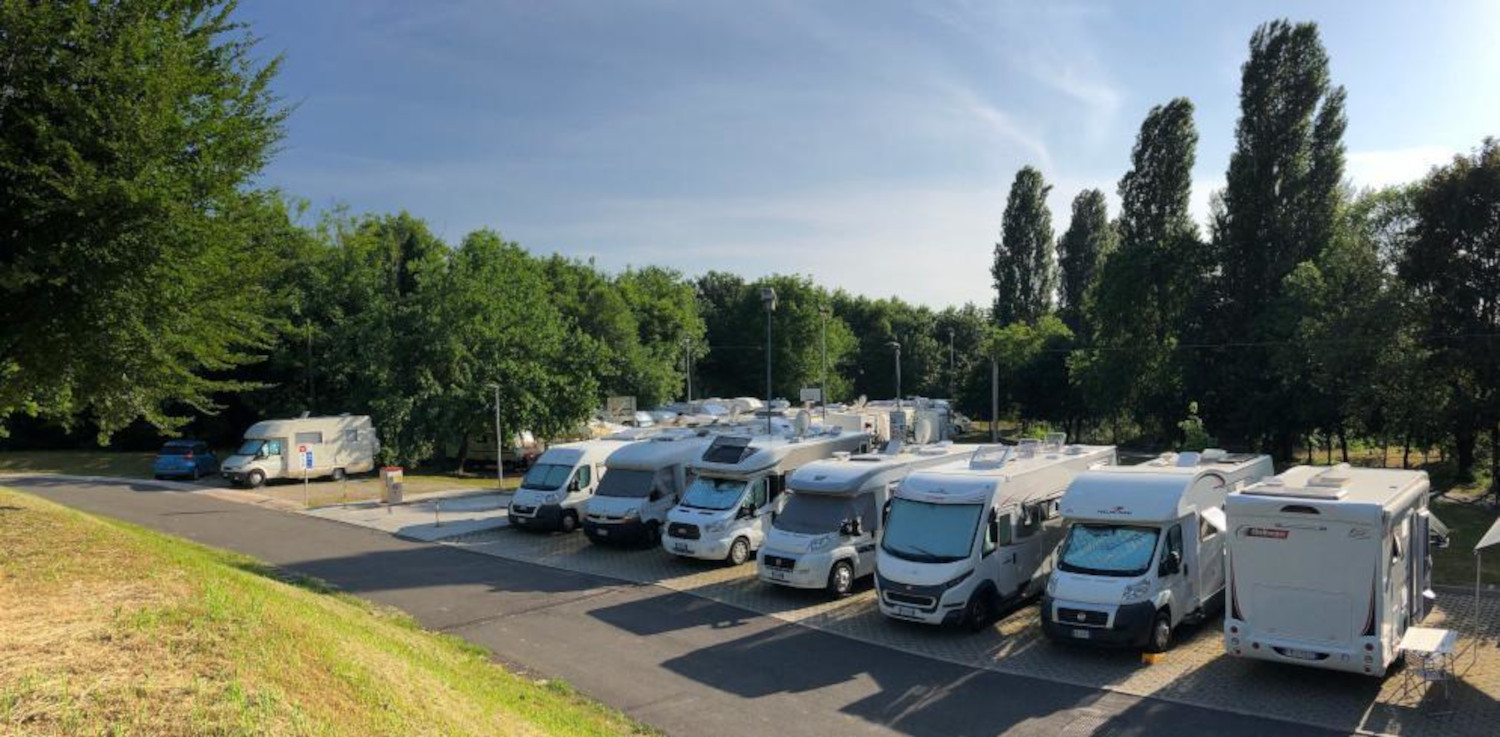
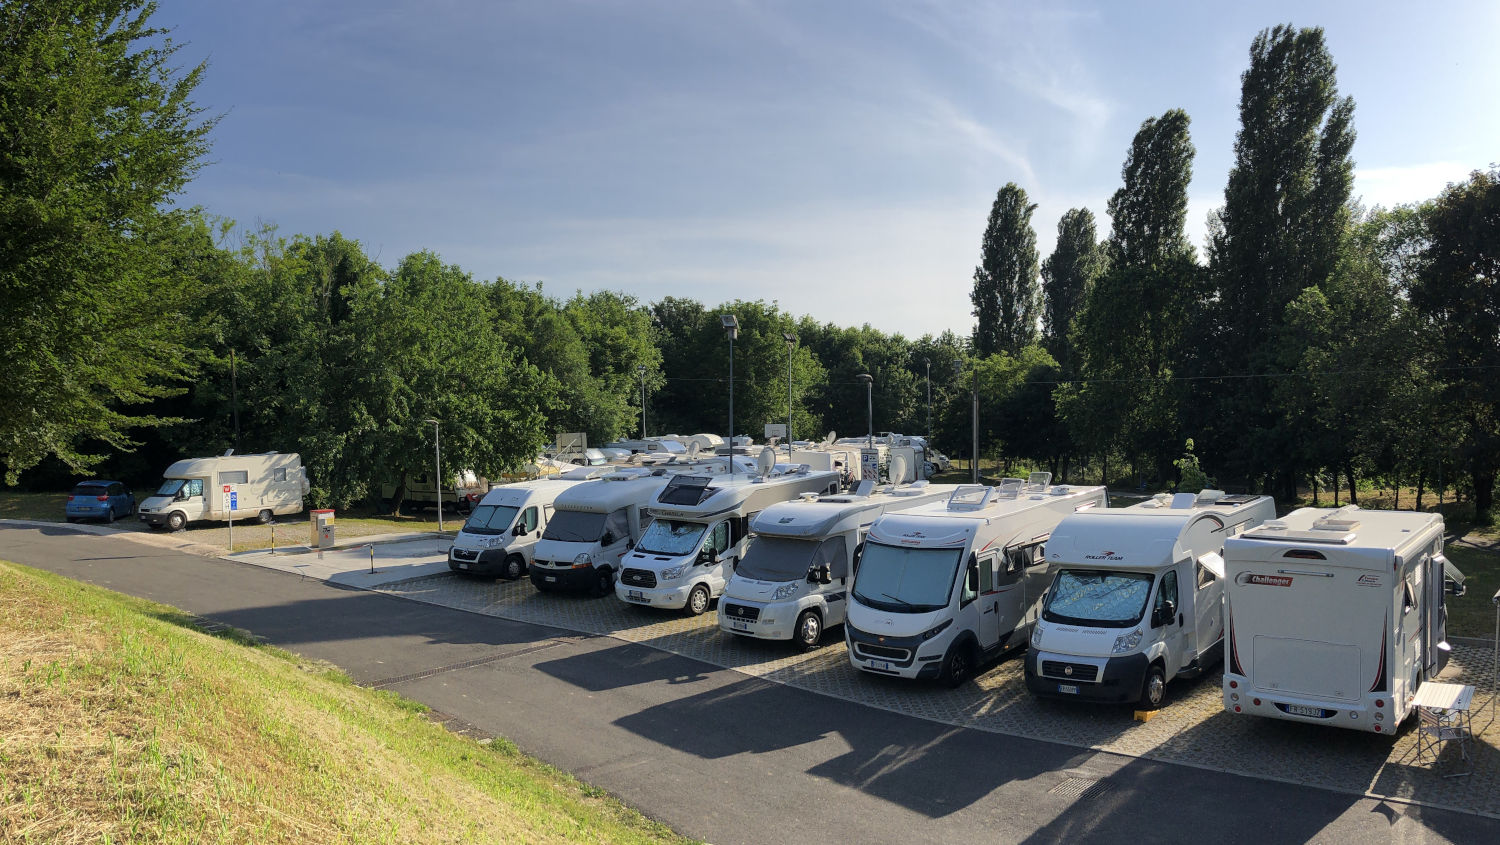
Inserimento gestione immagini jpg webp - 2a revisione - manca figure negli md

diff --git a/layouts/partials/image.html b/layouts/partials/image.html
@@ -1,0 +1,61 @@
+{{ $imagePath:= .Src }}
+{{ $class:= .Class }}
+{{ $size:= .Size }}
+{{ $alt:= .Alt }}
+{{ $height:= index (split $size `x`) 1 }}
+{{ $width:= index (split $size `x`) 0 }}
+
+<!-- image static/CDN -->
+{{ if or (hasPrefix $imagePath "http") (fileExists (add `static/` (string $imagePath))) }}
+<img loading="lazy" decoding="async" src="{{ $imagePath | absURL }}" alt="{{.Alt}}" class="{{with $class}}{{.}}{{else}}img-fluid{{end}}" height="{{$height}}" width="{{$width}}">
+{{ else }}
+<!-- /image cdn -->
+
+<!-- check file existance -->
+{{ if fileExists (add `assets/` (string $imagePath)) }}
+
+{{ $image:= resources.Get $imagePath }}
+<!-- image extension -->
+{{ $imageExt := path.Ext $image }}
+
+<!-- image height, width (if not svg) -->
+{{ if eq $imageExt `.svg` }}
+{{ .Scratch.Set "image-height" "" }}
+{{ .Scratch.Set "image-width" "" }}
+{{ else }}
+{{ .Scratch.Set "image-height" $image.Height }}
+{{ .Scratch.Set "image-width" $image.Width }}
+{{ end }}
+{{ $imageHeight:= .Scratch.Get "image-height" }}
+{{ $imageWidth:= .Scratch.Get "image-width" }}
+
+<!-- gif/svg image -->
+{{ if or (eq $imageExt `.gif`) (eq $imageExt `.svg`) }}
+<img src="{{$image.RelPermalink}}" loading="lazy" decoding="async" alt="{{.Alt}}" class="{{with $class}}{{.}}{{else}}img-fluid{{end}}" width="{{$width}}" height="{{$height}}">
+{{ else }}
+
+<!-- single image -->
+{{ if $size }}
+{{ $imageFallback:= $image.Resize $size }}
+{{ $imageWebp:= $image.Resize (add (string $size) " webp") }}
+<img loading="lazy" decoding="async" src="{{$imageWebp.RelPermalink}}" alt="{{.Alt}}" class="{{with $class}}{{.}}{{else}}img-fluid{{end}}" width="{{$width}}" height="{{$height}}" onerror="this.onerror='null';this.src='{{$imageFallback.RelPermalink}}'">
+{{ else }}
+
+<!-- image processing for multiple device -->
+{{ $imageFallback:= $image.Resize "1110x" }}
+{{ $imageXL:= $image.Resize "1110x webp" }}
+{{ $imageLG:= $image.Resize "700x webp" }}
+{{ $imageMD:= $image.Resize "600x webp" }}
+{{ $imageSM:= $image.Resize "545x webp" }}
+<picture>
+  <source srcset="{{ $imageSM.RelPermalink }}" media="(max-width: 575px)">
+  <source srcset="{{ $imageMD.RelPermalink }}" media="(max-width: 767px)">
+  <source srcset="{{ $imageLG.RelPermalink }}" media="(max-width: 991px)">
+  <source srcset="{{ $imageXL.RelPermalink }}">
+  <img loading="lazy" decoding="async" class="{{with $class}}{{.}}{{else}}img-fluid{{end}}" src="{{$imageFallback.RelPermalink}}" alt="{{.Alt}}" width="{{$image.Width}}" height="{{$image.Height}}">
+</picture>
+{{ end }} <!-- end image processing -->
+{{ end }} <!-- end single image -->
+{{ end }} <!-- end check file existance -->
+
+{{ end }}

diff --git a/layouts/partials/site-footer.html b/layouts/partials/site-footer.html
@@ -1,15 +1,15 @@
 <footer class="{{ .Site.Params.background_color_class | default "bg-black" }} bottom-0 w-100 pa3" role="contentinfo">
   <div class="white-70">Tags</div>
   <div>{{ partial "site-footer-tags.html" . }}</div>
-  <div class="white-70 center">{{ .Site.Params.indirizzo_footer }} <a href="http://www.comune.buttrio.ud.it/"><img src="/images/stemma_buttrio.png" class="w100 mw4-ns v-mid" title="Comune di Buttrio" /></a> <a href="https://www.buri.it"><img src="/images/buri_piccola.png" class="w100 mw4-ns v-mid"  title="Pro Loco Buri" /></a></div>
+  <div class="white-70 center">{{ .Site.Params.indirizzo_footer }} <a href="http://www.comune.buttrio.ud.it/">{{ partial "image.html" (dict "Src" "images/stemma_buttrio.png" "Size" "80x80" "Class" "w100 mw4-ns v-mid" "Alt" "Comune di Buttrio") }}</a> <a href="https://www.buri.it">{{ partial "image.html" (dict "Src" "images/buri_piccola.png" "Size" "50x49" "Class" "w100 mw4-ns v-mid" "Alt" "Pro Loco Buri") }}</a></div>
   <div class="ttu">{{ partial "site-navigation-footer.html" . }}</div>
   <div ><a class="link f5 no-underline br-2 ph3 pv2 mb2 dib white-70 sans-serif" href="/privacy-policy">Privacy Policy</a>
     <span class="white-70">Powered by:</span> 
     <a class="link f5 no-underline br-2 ph3 pv2 mb2 dib white-70 sans-serif" href="https://github.com">
-      <img src="/images/github.jpg" class="w100 mw4-ns v-mid" />
+      {{ partial "image.html" (dict "Src" "images/github.jpg" "Size" "57x56" "Class" "w100 mw4-ns v-mid" ) }}
     </a>
     <a class="link f5 no-underline br-2 ph3 pv2 mb2 dib white-70 sans-serif" href="https://gohugo.io/">
-      <img src="/images/hugo.jpg" class="w100 mw4-ns v-mid" />
+      {{ partial "image.html" (dict "Src" "images/hugo.jpg" "Size" "92x26" "Class" "w100 mw4-ns v-mid" "Alt" "Fatto con Hugo") }}
     </a>
     <a class="link f5 no-underline br-2 ph3 pv2 mb2 dib white-70 sans-serif" href="/blog/index.xml" type="application/rss+xml">
       {{ partial "svg/Feed-icon.svg" }}

diff --git a/layouts/partials/eventi-with-image.html b/layouts/partials/eventi-with-image.html
@@ -16,20 +16,20 @@
                 <!-- WEBP -->
             
                 <source type="image/webp" media="(max-width: 500px)"
-                    srcset=" {{ ($src.Resize "384x webp" ).RelPermalink }} ">
+                    srcset=" {{ ($src.Resize "384x266 webp" ).RelPermalink }} ">
             
                 <source type="image/webp" media="(min-width: 501px)"
-                    srcset=" {{ ($src.Resize "384x webp" ).RelPermalink }} ">
+                    srcset=" {{ ($src.Resize "384x266 webp" ).RelPermalink }} ">
             
                 <!-- JPG -->
             
                 <source type="image/jpeg"  media="(max-width: 500px)"
-                    srcset=" {{ ($src.Resize "384x" ).RelPermalink }} ">
+                    srcset=" {{ ($src.Resize "384x266" ).RelPermalink }} ">
             
                 <source type="image/jpeg"  media="(min-width: 501px)"
-                    srcset=" {{ ($src.Resize "384x" ).RelPermalink }} ">
+                    srcset=" {{ ($src.Resize "384x266" ).RelPermalink }} ">
               
-                <img class="img" src=" {{ $src.RelPermalink }} " alt="immagine da {{ .Title }}" />
+                <img class="img" src=" {{ $src.RelPermalink }} " alt="immagine da {{ .Title }}" width="384" height="266" />
               </picture>
             {{ end }}
 

diff --git a/layouts/_default/summary-with-image.html b/layouts/_default/summary-with-image.html
@@ -15,20 +15,20 @@
               <!-- WEBP -->
           
               <source type="image/webp" media="(max-width: 500px)"
-                  srcset=" {{ ($src.Resize "384x webp" ).RelPermalink }} ">
+                  srcset=" {{ ($src.Resize "384x266 webp" ).RelPermalink }} ">
           
               <source type="image/webp" media="(min-width: 501px)"
-                  srcset=" {{ ($src.Resize "384x webp" ).RelPermalink }} ">
+                  srcset=" {{ ($src.Resize "384x266 webp" ).RelPermalink }} ">
           
               <!-- JPG -->
           
               <source type="image/jpeg"  media="(max-width: 500px)"
-                  srcset=" {{ ($src.Resize "384x" ).RelPermalink }} ">
+                  srcset=" {{ ($src.Resize "384x266" ).RelPermalink }} ">
           
               <source type="image/jpeg"  media="(min-width: 501px)"
-                  srcset=" {{ ($src.Resize "384x" ).RelPermalink }} ">
+                  srcset=" {{ ($src.Resize "384x266" ).RelPermalink }} ">
              
-              <img class="img" src=" {{ $src.RelPermalink }} " alt="immagine da {{ .Title }}" />
+              <img class="img" src=" {{ $src.RelPermalink }} " alt="immagine da {{ .Title }}" width="384" height="266"  />
             </picture>
     
           {{ end }}

diff --git a/layouts/partials/site-header.html b/layouts/partials/site-header.html
@@ -14,18 +14,18 @@
           <!-- WEBP -->
       
           <source type="image/webp" media="(max-width: 500px)"
-              srcset=" {{ ($src.Resize "498x webp" ).RelPermalink }} ">
+              srcset=" {{ ($src.Resize "498x281 webp" ).RelPermalink }} ">
       
           <source type="image/webp" media="(min-width: 501px)"
-              srcset=" {{ ($src.Resize (printf "%dx webp" .Width)).RelPermalink }} ">
+              srcset=" {{ ($src.Resize (printf "%dx%d webp" .Width .Height)).RelPermalink }} ">
       
           <!-- JPG -->
       
           <source type="image/jpeg"  media="(max-width: 500px)"
-              srcset=" {{ ($src.Resize "500x" ).RelPermalink }} ">
+              srcset=" {{ ($src.Resize "498x281" ).RelPermalink }} ">
       
           <source type="image/jpeg"  media="(min-width: 501px)"
-              srcset=" {{ ($src.Resize (printf "%dx" .Width)).RelPermalink }} ">
+              srcset=" {{ ($src.Resize (printf "%dx%d" .Width .Height)).RelPermalink }} ">
         
           <img class="pageheader" src=" {{ $src.RelPermalink }} "  />
         </picture>

diff --git a/layouts/partials/site-navigation-footer.html b/layouts/partials/site-navigation-footer.html
@@ -2,7 +2,7 @@
   <div class="flex-l justify-between items-center center">
     <a href="{{ .Site.Home.RelPermalink }}" class="f3 fw2 hover-white no-underline white-90 dib">
       {{ with .Site.Params.site_logo }}
-        <img src="{{ . }}" class="w70 mw4-ns" alt="{{ $.Site.Title }}" />
+        <img src="{{ . }}" class="w70 mw4" alt="{{ $.Site.Title }}"  />
       {{ else }}
         {{ .Site.Title }}
       {{ end }}

diff --git a/content/cookie-policy.md b/content/cookie-policy.md
@@ -47,7 +47,7 @@ La maggior parte dei browser permette di cancellare i cookie dal disco fisso del
 
 [Mozilla Firefox](https://support.mozilla.org/it/kb/Attivare%20e%20disattivare%20i%20cookie)
 
-[Internet Explorer](http://support.microsoft.com/kb/196955)
+[Microsoft Edge](https://support.microsoft.com/it-it/microsoft-edge/eliminare-i-cookie-in-microsoft-edge-63947406-40ac-c3b8-57b9-2a946a29ae09)
 
 [Safari](http://support.apple.com/kb/PH5042)
 

diff --git a/content/gallery/photo-gallery-2019/index.md b/content/gallery/photo-gallery-2019/index.md
@@ -3,7 +3,7 @@ title: "Photo Gallery 2019"
 date: 2021-01-01T22:55:41+01:00
 draft: false
 layout: "galleria"
-featured_image: 'images/Home.jpg'
+featured_image: 'images/CampersInSosta.jpg'
 
 album:
   enable: true

diff --git a/content/gallery/photo-gallery-2021/index.md b/content/gallery/photo-gallery-2021/index.md
@@ -3,7 +3,7 @@ title: "Photo Gallery 2021"
 date: 2021-01-01T22:55:41+01:00
 draft: false
 layout: "galleria"
-featured_image: 'images/Home.jpg'
+featured_image: 'images/CampersInSosta.jpg'
 
 album:
   enable: true

diff --git a/content/gallery/photo-gallery-2022/index.md b/content/gallery/photo-gallery-2022/index.md
@@ -3,7 +3,7 @@ title: "Photo Gallery 2022"
 date: 2022-02-01T22:55:41+01:00
 draft: false
 layout: "galleria"
-featured_image: 'images/Home.jpg'
+featured_image: 'images/CampersInSosta.jpg'
 
 album:
   enable: true

diff --git a/content/gallery/photo-gallery-2017/index.md b/content/gallery/photo-gallery-2017/index.md
@@ -3,7 +3,7 @@ title: "Photo Gallery 2017"
 date: 2021-01-01T22:55:41+01:00
 draft: false
 layout: "galleria"
-featured_image: 'images/Home.jpg'
+featured_image: 'images/CampersInSosta.jpg'
 
 
 album:

diff --git a/content/gallery/photo-gallery-2018/index.md b/content/gallery/photo-gallery-2018/index.md
@@ -3,7 +3,7 @@ title: "Photo Gallery 2018"
 date: 2021-01-01T22:55:41+01:00
 draft: false
 layout: "galleria"
-featured_image: 'images/Home.jpg'
+featured_image: 'images/CampersInSosta.jpg'
 
 
 album:
